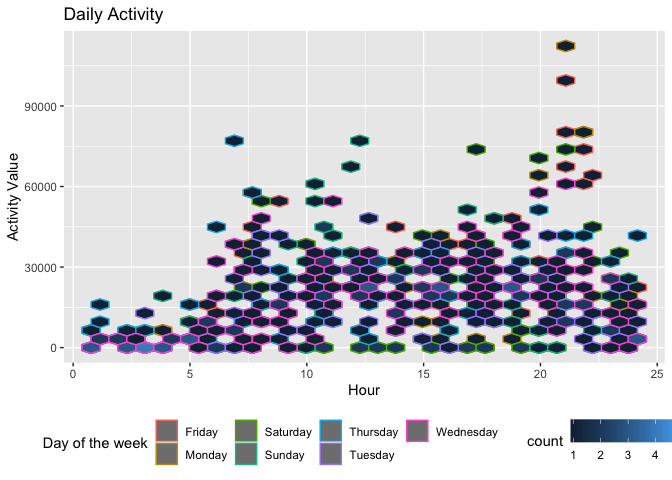
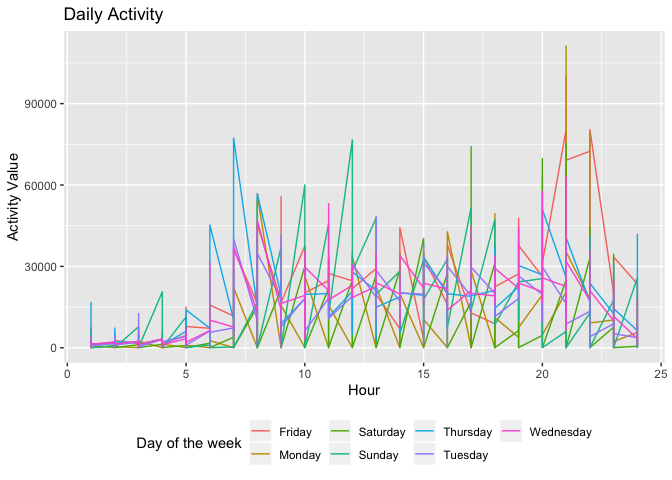
HW last minute changes

diff --git a/Homework_3.md b/Homework_3.md
@@ -427,13 +427,13 @@ accel_plot = accel_plot%>%
     values_to = "activity"
   )  %>% 
   mutate(
-    hour= as.numeric(hour) #change to numeric for later plotting 
+    hour= as.numeric(hour) #change to numeric
   )
 
 accel_plot %>% 
-  arrange(hour)%>%
-  ggplot(aes(x= hour, y = activity)) + 
-  geom_hex(aes(color = day_of_the_week)) +
+  group_by(week, day_of_the_week)%>%
+  ggplot(aes(grup = day_of_the_week, x= hour, y = activity)) + 
+  geom_line( aes(color = day_of_the_week)) +
   labs(title = "Daily Activity", 
        x = "Hour",
        y = "Activity Value") +
@@ -443,21 +443,7 @@ accel_plot %>%
 
 ![](Homework_3_files/figure-gfm/unnamed-chunk-1-1.png)<!-- -->
 
-``` r
-head(accel_plot)
-```
-
-    ## # A tibble: 6 x 4
-    ##    week day_of_the_week  hour activity
-    ##   <int> <fct>           <dbl>    <dbl>
-    ## 1     1 Friday              1    2397.
-    ## 2     1 Friday              2    2215.
-    ## 3     1 Friday              3    1509.
-    ## 4     1 Friday              4    3163.
-    ## 5     1 Friday              5    4598.
-    ## 6     1 Friday              6    7190.
-
-\#Description \#\#this dataset contains 35 observations with 1444
+\#Description \#\# This dataset contains 35 observations with 1444
 variables. This data represents almost four years of the patient’s daily
 activity, down to each minute of a 24 hour day for 35 days. \#\#
 stratifying by day of the week shows that weekends are generaly lower in
